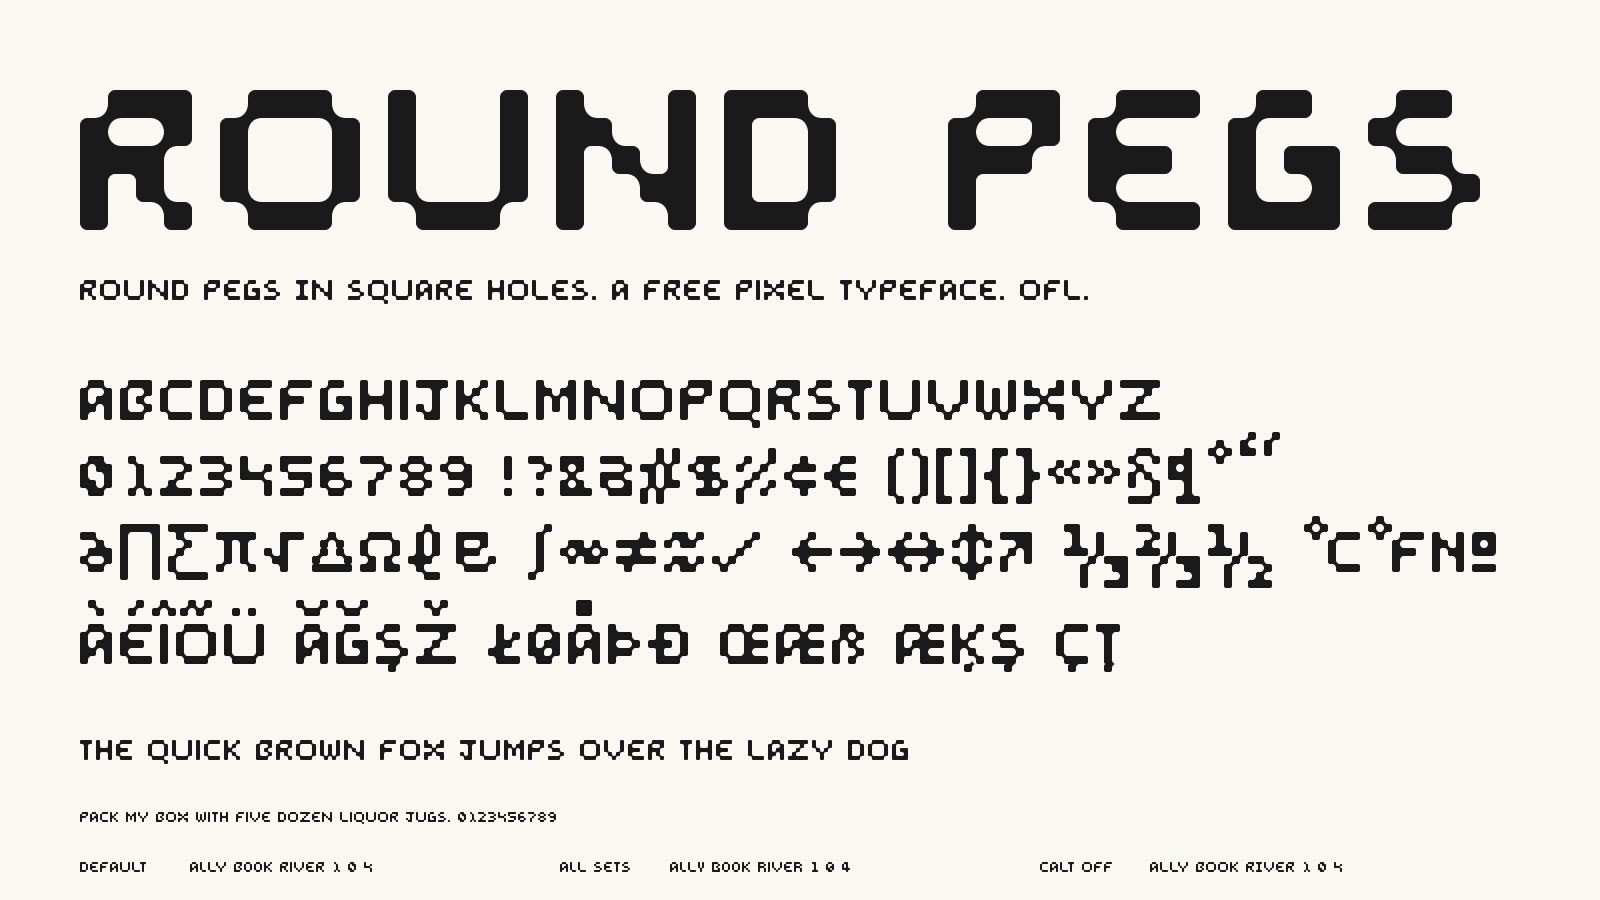
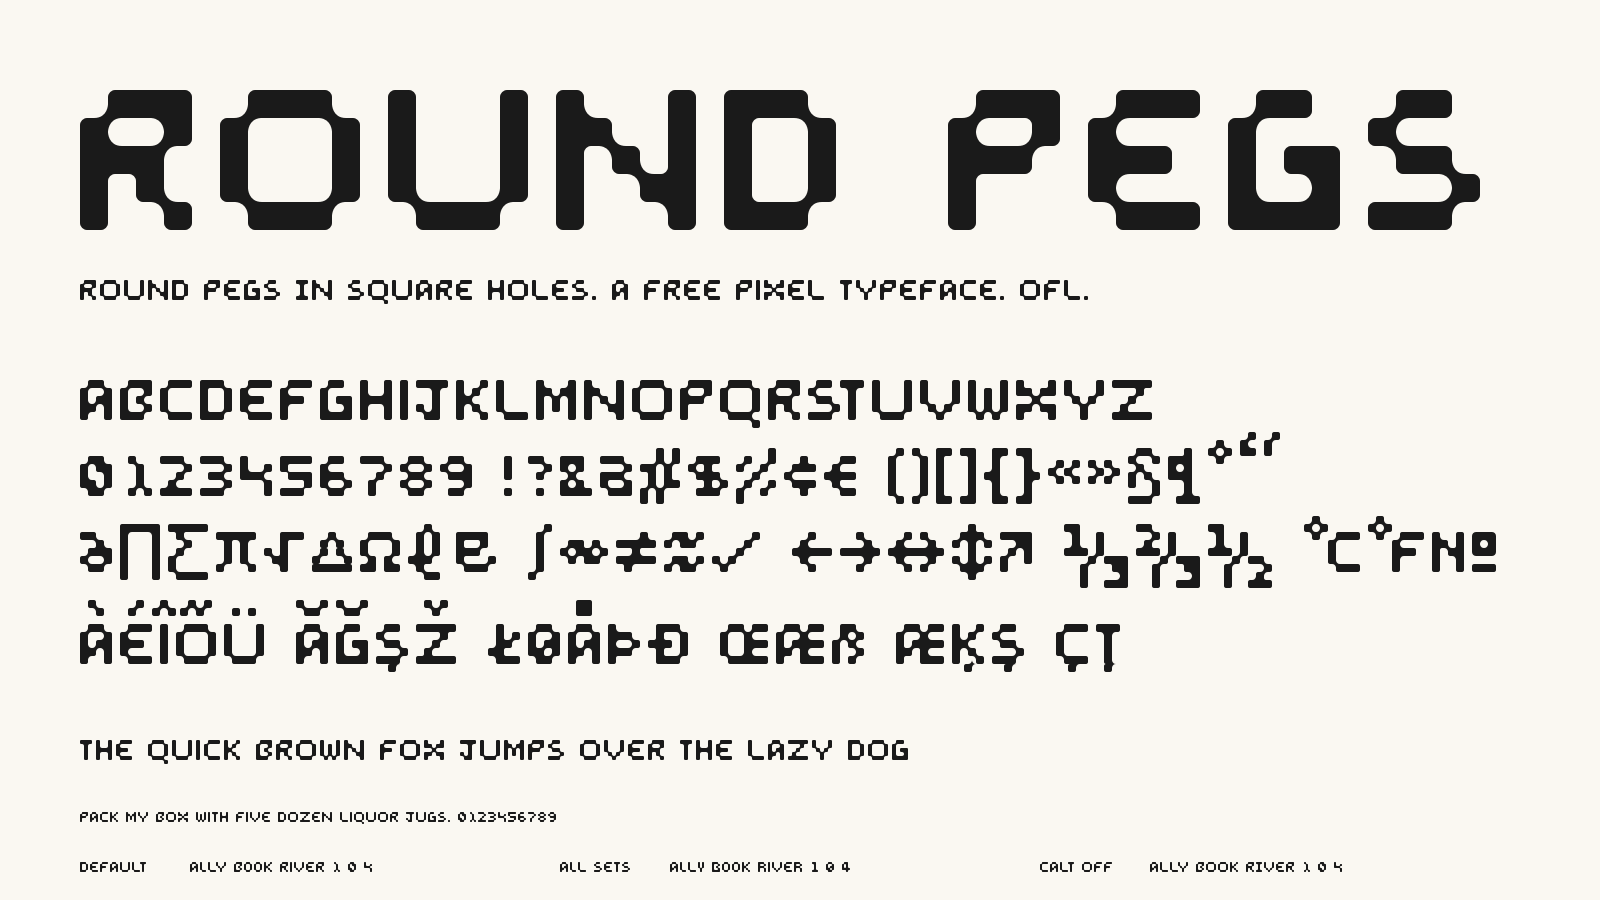
1.029: kern ST by 1 cell
Claude-Session: https://claude.ai/code/session_01NEn1NY7kHH7qacmzWURnUc

Changed region(s): [[0.5312, 0.4044, 0.7188, 0.4667]]

diff --git a/sources/tools/kern_rules.py b/sources/tools/kern_rules.py
@@ -4,6 +4,7 @@ Usage: python3 -I kern_rules.py RoundPegs-Regular.otf kern.fea
 
 For each rule, the closest row between the two letters is set to a target gap (in cells):
   * 0 cells (letters touch): LV LT LY
+  * S before T moves in 1 cell (the S top row and lower bulge both stop short of its outer edge, so every row is 2 cells from T; tucked, every row is 1)
   * Y and V before a period or comma move in 2 cells (only the 1-cell stem is left at the baseline, so the mark tucks under the arm)
   * 1 cell: L+{C E J L O Q U W}, F/C/Z + any capital, E+Y, C+V, C+Y
 Pairs already at the target are left alone. All other pairs are unkerned.
@@ -17,6 +18,7 @@ import kern as K
 TOUCH = ['LV', 'LT', 'LY']
 UNDER = []   # no pairs currently slide under a neighbour (LY used to, at -1 cell; it now touches like LV and LT)
 PUNCT = [(l, g) for l in 'YV' for g in ('period', 'comma')]   # fixed -2 cells
+ROWWISE = [('S', 'T')]   # fixed -1 cell: the outer-edge gap is already 1 but every row is 2 cells away
 ONE = [('L', r) for r in 'CEJLOQUW'] + [(l, r) for l in 'FCZ' for r in string.ascii_uppercase] + [('E', 'Y'), ('C', 'V'), ('C', 'Y')]
 
 def main(otf, out):
@@ -41,6 +43,8 @@ def main(otf, out):
     fea = '# Generated by sources/tools/kern_rules.py - whole-cell pair kerning (see documentation/DESIGN.md)\n\n' + cls.split('\n', 2)[2] + 'feature kern {\n'
     for (p, k, g, t) in pairs:
         fea += f'  pos @K_{p[0]} @K_{p[1]} {k*128};\n'
+    for l, g in ROWWISE:
+        fea += f'  pos @K_{l} @K_{g} -128;\n'
     for l, g in PUNCT:
         fea += f'  pos @K_{l} {g} -256;\n'
     fea += '} kern;\n'

diff --git a/documentation/DESIGN.md b/documentation/DESIGN.md
@@ -20,4 +20,4 @@ This is a deliberate two-class system, not an accident: the 5-cell O, Q and U ke
 ## Spacing
 
 - Every glyph has a 1-cell gap on its right. Word space is 3 cells (4 cells of white between words).
-- Spacing is the grid itself: every letter has ink from 0 to advance minus 1 cell, so the gap between any two letters is 1 cell. That holds for L, F, C, Z and their neighbours too (LC, LE, LJ, LL, LO, LQ, LU, LW, EY, CV, CY all keep the 1-cell gap, so rounded joins and fillet stars never merge). The exceptions are kerning and contextual spacing. Three kerning pairs move in by 1 cell so the L's foot tucks under the next letter (gap 0): LV and LT, where the arm of V or the bar of T sits flush against the end of L's foot, and LY, where the foot stops flush against the Y's open lower-left. LY used to move in by 2 cells (gap -1, the foot slid one cell under the Y), but the overlap looked wrong inside words, so it now sits at gap 0 like the other two. Y and V before a period or comma also move in by 2 cells (four more pairs): at the baseline only the 1-cell stem is left, so the mark would otherwise sit 3 cells away; tucked in, it ends 1 cell from the stem under the arm. T. is left alone, because 1 more cell would put the period against T's stem. Generated by `sources/tools/kern_rules.py` into `sources/tools/kern.fea`; see `documentation/kerning-pairs.txt`. An earlier automatic 43-pair experiment tightened too much and is kept off in `sources/tools/kern.experimental.fea`. Two `calt` rules in `release.py` handle doubles: L before L becomes `L.short` (3 cells with the normal 1-cell gap, so LL is 8 cells instead of 9; an earlier version had no gap and the foot ran into the next L's stem, which looked too close. LLY keeps the full second L so the LY kern still applies), and every plain O in a run of two or more takes `O.ss11`, the 4-cell narrow O at the normal 1-cell gap (OO is 9 cells instead of 11). Other doubles (EE, SS, RR and so on) are deliberately left alone, and accented L and O keep their normal shapes.
+- Spacing is the grid itself: every letter has ink from 0 to advance minus 1 cell, so the gap between any two letters is 1 cell. That holds for L, F, C, Z and their neighbours too (LC, LE, LJ, LL, LO, LQ, LU, LW, EY, CV, CY all keep the 1-cell gap, so rounded joins and fillet stars never merge). The exceptions are kerning and contextual spacing. Three kerning pairs move in by 1 cell so the L's foot tucks under the next letter (gap 0): LV and LT, where the arm of V or the bar of T sits flush against the end of L's foot, and LY, where the foot stops flush against the Y's open lower-left. LY used to move in by 2 cells (gap -1, the foot slid one cell under the Y), but the overlap looked wrong inside words, so it now sits at gap 0 like the other two. Y and V before a period or comma also move in by 2 cells (four more pairs): at the baseline only the 1-cell stem is left, so the mark would otherwise sit 3 cells away; tucked in, it ends 1 cell from the stem under the arm. ST also moves in by 1 cell: the S's top row and lower bulge both stop short of its outer edge, so every row was 2 cells from the T; tucked, every row is 1 and T's bar overhangs the S's top-right corner (that makes five pairs added in all). T. is left alone, because 1 more cell would put the period against T's stem. Generated by `sources/tools/kern_rules.py` into `sources/tools/kern.fea`; see `documentation/kerning-pairs.txt`. An earlier automatic 43-pair experiment tightened too much and is kept off in `sources/tools/kern.experimental.fea`. Two `calt` rules in `release.py` handle doubles: L before L becomes `L.short` (3 cells with the normal 1-cell gap, so LL is 8 cells instead of 9; an earlier version had no gap and the foot ran into the next L's stem, which looked too close. LLY keeps the full second L so the LY kern still applies), and every plain O in a run of two or more takes `O.ss11`, the 4-cell narrow O at the normal 1-cell gap (OO is 9 cells instead of 11). Other doubles (EE, SS, RR and so on) are deliberately left alone, and accented L and O keep their normal shapes.

diff --git a/README.md b/README.md
@@ -20,7 +20,7 @@ Designed by Tejas at [3 Sided Coin](https://3sided.co.in). Originally made for t
 - **Arrows and shapes:** ← ↑ → ↓ ↔ ↕ ↖ ↗ ↘ ↙, ■ □ ▲ ▼ ▶ ◀ ◆ ◇ ◊ ▪ Ⓓ and ✓.
 - **Punctuation and currency:** typographic quotes and guillemets, dashes, bullets, daggers, and $ ¢ £ ¤ ¥ € ₹.
 - **Stylistic alternates**, each in its own set so you can mix them: `ss01` alternate R, `ss02` alternate 1, `ss03` alternate B, `ss04` alternate P (all three with a square top-left and a notched right side), `ss05` slim I (one cell wide), `ss06` narrow Y, `ss07` narrow X, `ss08` narrow N, `ss09` slashed zero, `ss10` closed four and `ss11` narrow O. The accented forms of R, I, Y, N and O have alternates too. In CSS: `font-feature-settings: "ss01", "ss05";`.
-- **Contextual spacing** (on by default through `calt`): an I with a letter on both sides takes the slim 1-cell I (PIXEL, BIG, MILLION) while a standalone I and the I at the start or end of a word (I, INK, IN, IT'S) keep their bars; in LL, LLL and LLY every L except the last becomes a 3-cell short L, one cell from the next L; every O in a run of two or more Os (OO, BOOK, MOON) takes the narrow O; the L in LV, LT and LY also sits flush against its neighbour, and a period or comma tucks under the arm of a Y or V (Y. Y, V. V,), through `kern`. Turn the `calt` rules off with `font-feature-settings: "calt" 0;`.
+- **Contextual spacing** (on by default through `calt`): an I with a letter on both sides takes the slim 1-cell I (PIXEL, BIG, MILLION) while a standalone I and the I at the start or end of a word (I, INK, IN, IT'S) keep their bars; in LL, LLL and LLY every L except the last becomes a 3-cell short L, one cell from the next L; every O in a run of two or more Os (OO, BOOK, MOON) takes the narrow O; the L in LV, LT and LY also sits flush against its neighbour, a period or comma tucks under the arm of a Y or V (Y. Y, V. V,), and the T's bar tucks over the S in ST, through `kern`. Turn the `calt` rules off with `font-feature-settings: "calt" 0;`.
 - **Proportional figures** (`pnum`): figures are tabular by default, so columns of numbers line up. `pnum` gives the 1 a 4-cell advance instead of 5, so runs like 11 and 2019 close up; it combines with the `ss02` alternate 1. `tnum` turns it back off.
 - Stacked accents (Lithuanian Ė́, Ū́ and similar) rise to 1.25 em above the baseline, above the 1.0 em ascender; very tight line-heights may clip them. A few tall glyphs (∑ ∏ ∫ ℓ ↕ and the fractions) run 1 cell below the baseline to 6 above, so use a line-height of at least 1.4.
 - Not yet drawn: Vietnamese and non-Latin scripts.

diff --git a/documentation/ISSUE_DRAFT.md b/documentation/ISSUE_DRAFT.md
@@ -27,7 +27,7 @@ By opening this issue, I confirm the project meets the following requirements:
 **Notes:**
 
 - Version 1.029: 378 glyphs, 482 characters. Covers the Google Fonts Latin Core and Latin Kernel glyphsets in full (319 and 116 of 319 and 116), the whole of Windows-1252 (the soft hyphen is left out on purpose, following FontBakery's recommendation), and 76 of the 110 glyphs in the optional Latin Plus set (fractions, super- and subscript digits, currency and typographic marks). Covers about 350 Latin-script languages (shaperglot), including Finnish, Norwegian, Northern Sami and Lithuanian with tone-mark stacking. Vietnamese and non-Latin scripts are not drawn.
-- Capitals-only by design: lowercase maps to the capitals. Spacing is the whole-cell grid itself (1-cell gaps), with seven kerning pairs (LV, LT and LY sit flush against the L's foot; Y. Y, V. V, tuck the mark under the arm) and two default-on contextual rules (`calt`) for LL and OO runs. Rules are in documentation/DESIGN.md.
+- Capitals-only by design: lowercase maps to the capitals. Spacing is the whole-cell grid itself (1-cell gaps), with eight kerning pairs (LV, LT and LY sit flush against the L's foot; ST tucks the T's bar over the S; Y. Y, V. V, tuck the mark under the arm) and two default-on contextual rules (`calt`) for LL and OO runs. Rules are in documentation/DESIGN.md.
 - FontBakery `check-googlefonts` on v1.029 (fonts/ttf/RoundPegs-Regular.ttf): 0 FATAL, 0 FAIL, 6 WARN, 112 PASS. The warnings are alt_caron (Dcaron, Lcaron and Tcaron are composed from base letter and mark), contour count (pixel outlines), article (added after onboarding), unreachable combining-mark subsets, the unregistered vendor ID 3SDC, and outline alignment on ↕ (fillet points 1.5 units under the baseline, from the drawn star joins).
 - Editable source: sources/RoundPegs-Regular.ufo, with sources/config.yaml and sources/build.sh (fontmake). The original per-glyph SVG drawings are in sources/svg. The generators (build, release, kerning) are in sources/tools.
 - Renamed from "Edge Case" to "Round Pegs" before onboarding; repo renamed to round-pegs-typeface.

diff --git a/CHANGELOG.md b/CHANGELOG.md
@@ -2,6 +2,7 @@
 
 ## 1.029
 - Kerned Y and V before a period or comma (Y. Y, V. V,) by 2 cells, so the mark tucks under the arm and ends 1 cell from the stem instead of 3 away. T. is unchanged
+- Kerned ST by 1 cell: every row of the S was 2 cells from the T, and now sits 1 cell away with the T's bar overhanging the S's top-right corner
 - Version bumped so installed copies are replaced
 
 ## 1.028
